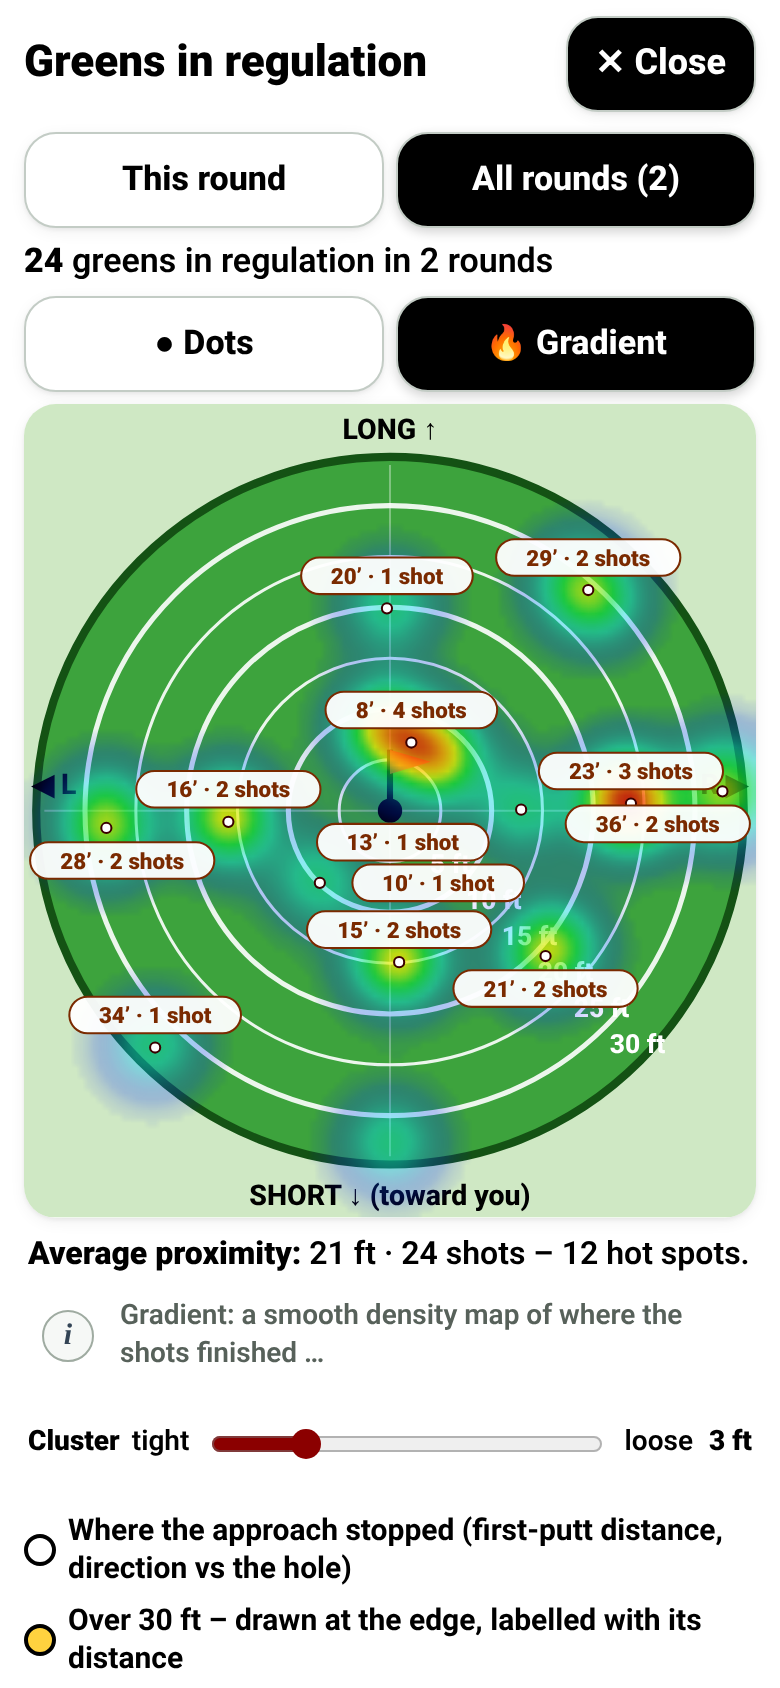
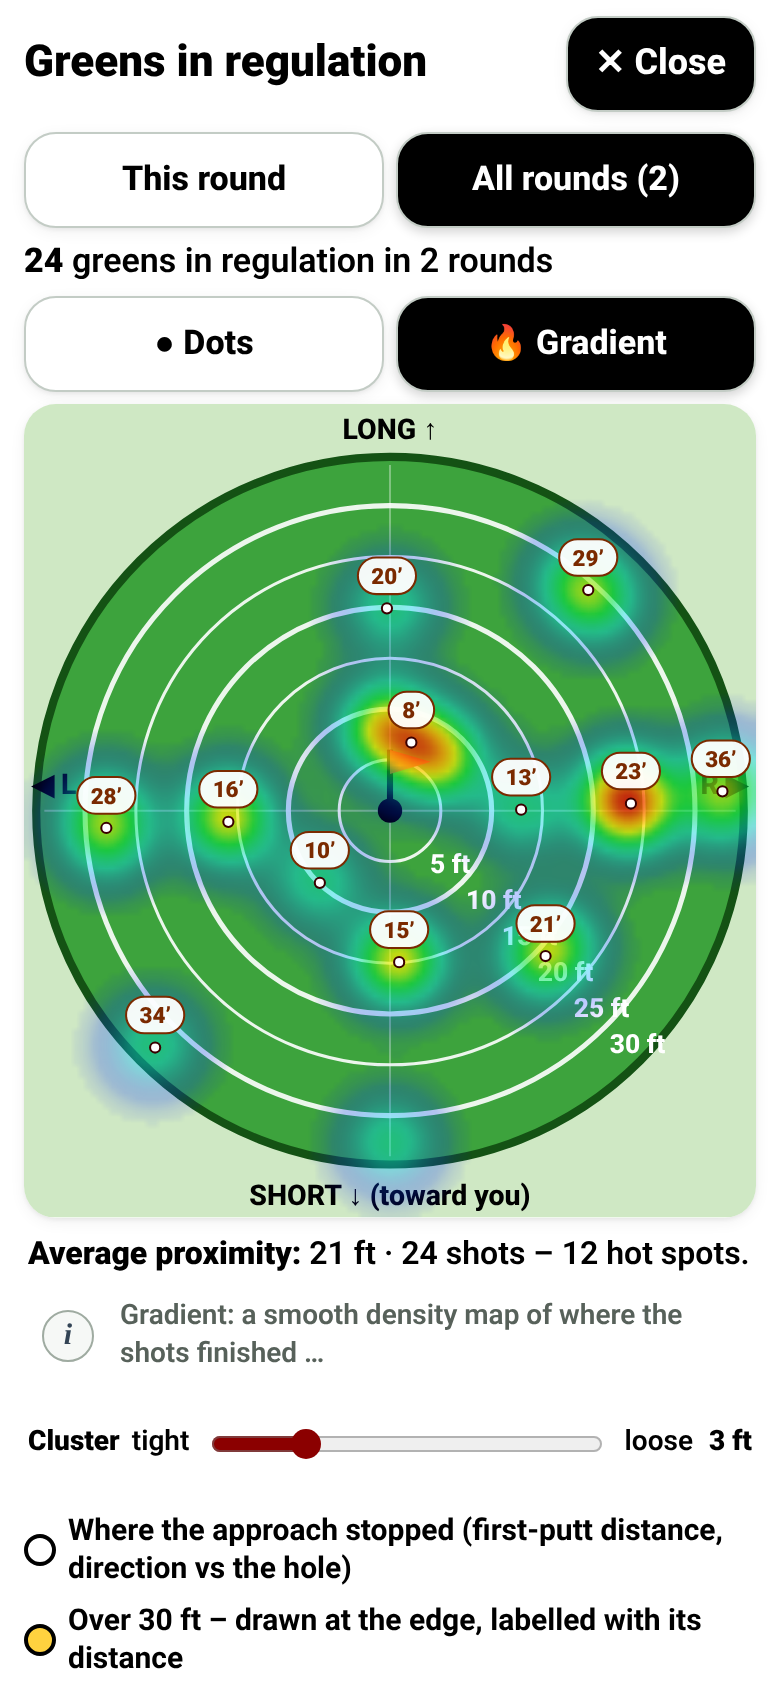
v73: GIR hot-spot labels distance only; prox dot labels use ’

Changed region(s): [[0.0308, 0.4005, 0.9846, 0.6161], [0.3692, 0.3081, 0.8923, 0.3697], [0.0923, 0.5853, 0.3077, 0.6161]]

diff --git a/tests/heat-focused.js b/tests/heat-focused.js
@@ -30,9 +30,9 @@ const BASE = process.env.BASE_URL || 'http://127.0.0.1:8774/', OUT = '/workspace
     if (m === 'pmiss') { await page.waitForSelector('#heattog'); }
     const gr = await page.evaluate(() => ({ img: !!document.querySelector('#mapview svg.heat #heatgrad'), hs: [...document.querySelectorAll('#mapview .hotspot text')].map(t => t.textContent), avg: !!document.querySelector('#heatavg'), sel: document.querySelector('#heattog .sel').dataset.v }));
     assert.ok(gr.img && (m === 'miss' ? gr.avg : !gr.avg) && gr.sel === 'grad', m + ' gradient by default for multi-round ' + JSON.stringify(gr));
-    assert.ok(gr.hs.length && gr.hs.every(t => (m === 'prox' ? /^\d+(\u2019| yd)$/ : /^\d+(\u2019| yd) · \d+ shots?$/).test(t)), m + ' hot-spot tags ' + gr.hs);
+    assert.ok(gr.hs.length && gr.hs.every(t => ((m === 'prox' || m === 'gir') ? /^\d+(\u2019| yd)$/ : /^\d+(\u2019| yd) · \d+ shots?$/).test(t)), m + ' hot-spot tags ' + gr.hs);
     if (m === 'prox') { await page.locator('#mapview svg.heat').scrollIntoViewIfNeeded(); await page.screenshot({ path: OUT + 'prox-labels-dist.png' }); }
-    if (m === 'gir') { assert.ok(gr.hs.some(t => /\u2019 · /.test(t)) && !gr.hs.some(t => / ft/.test(t)), 'feet mark ' + gr.hs); await page.locator('#mapview svg.heat').scrollIntoViewIfNeeded(); await page.screenshot({ path: OUT + 'labels-feet-mark.png' }); }
+    if (m === 'gir') { assert.ok(gr.hs.every(t => /^\d+\u2019$/.test(t)) && !gr.hs.some(t => / ft/.test(t)), 'feet mark ' + gr.hs); await page.locator('#mapview svg.heat').scrollIntoViewIfNeeded(); await page.screenshot({ path: OUT + 'gir-labels-dist.png' }); }
     await page.locator('#heattog').scrollIntoViewIfNeeded(); await page.screenshot({ path: OUT + 'heatmap-gradient-' + m + '.png' });
     if (m === 'putt') { // putt starts: no ⊕, summary = mean distance of the putts shown
       const ps = await page.evaluate(() => { const rs = JSON.parse(localStorage.getItem('golfsg.rounds.v1')); const d = []; // raw entered first-putt distances

diff --git a/tests/d1-focused.js b/tests/d1-focused.js
@@ -38,7 +38,7 @@ const BASE = 'http://127.0.0.1:8786/', OUT = '/workspace/golf-app/screenshots/';
   const cl = await page.evaluate(() => { const L = [['long',38],['right',12],['left',30],['short',24],['longleft',60]].map((d, i) => ({ hit: true, ft: d[1], proxFt: d[1], dir: d[0], hole: i + 1, from: 40, yd: 40 }));
     const host = document.getElementById('proxmap'); host.outerHTML = window.__golf.proxSVG(L, 40); const s = document.getElementById('proxmap'), R = +s.querySelector('#proxrings').dataset.rft, K = 117 / R;
     const hits = [...s.querySelectorAll('.xdot[data-kind="hit"]')].map(e => ({ ft: +e.dataset.hd, cl: !!e.dataset.clamped, d: Math.hypot(+e.getAttribute('cx') - 150, +e.getAttribute('cy') - 250) }));
-    const marks = [...s.querySelectorAll('text')].filter(t => /ft ›$/.test(t.textContent)).map(t => t.textContent); return { R, K, hits, marks }; });
+    const marks = [...s.querySelectorAll('text')].filter(t => /^\d+\u2019 ›$/.test(t.textContent)).map(t => t.textContent); return { R, K, hits, marks }; });
   const over = cl.hits.filter(h => h.ft > cl.R * 0.97); console.log('40 yd edge test: radius', cl.R, 'ft; beyond edge', over.length, 'labels', cl.marks.join(' | '));
   assert.strictEqual(over.length, 3, 'three hits past the edge'); assert.ok(over.every(h => h.cl && Math.abs(h.d - cl.R * 0.97 * cl.K) < 1.5), 'clamped at the edge ' + JSON.stringify(over));
   assert.ok(cl.hits.filter(h => !h.cl).every(h => Math.abs(h.d - h.ft * cl.K) < 1.5), 'true distance inside'); assert.strictEqual(cl.marks.length, 3, 'one › label per clamped hit');

diff --git a/app.js b/app.js
@@ -1297,7 +1297,7 @@
   }
   // tee-shot map: a hot spot's count + fairway share (its average distance would mislead: hits and misses mix); else avg distance + count
   function heatLabel(g) { var n = g.length + ' shot' + (g.length === 1 ? '' : 's');
-    if (view.map === 'prox') return heatFmt(g); // the yardage rail already gives the counts
+    if (view.map === 'prox' || view.map === 'gir') return heatFmt(g); // the yardage rail already gives the counts
     if (view.map === 'fw') return n + ' · ' + Math.round(100 * g.filter(function (p) { return p.fw === '1'; }).length / g.length) + '% fairway';
     return heatFmt(g) + ' · ' + n; }
   function heatFmt(list) { // average distance; yards when every shot is off the green in yd, else feet
@@ -1869,7 +1869,7 @@
         else {
           var nod = !m.dir, rr = Math.min(m.ft, HMAX) * PX.K, key = (m.dir || 'n') + Math.round(rr / 8), j = seen[key] = (seen[key] || 0) + 1;
           q = pt(PX.cx, PX.cy, rr, (nod ? 90 : SG.DIR_ANGLE[m.dir]) + (j - 1) * 7); kind = nod ? 'hitnodir' : 'hit';
-          clamped = m.ft > HMAX; label = Math.round(m.ft) + ' ft' + (clamped ? ' ›' : '') + (m.chipIn ? ' (chip-in)' : '');
+          clamped = m.ft > HMAX; label = Math.round(m.ft) + '’' + (clamped ? ' ›' : '') + (m.chipIn ? ' (chip-in)' : '');
         }
       } else if (!m.dir) {
         q = [PX.W - 22 - (nd % 6) * 26, 52 + Math.floor(nd / 6) * 34]; nd++; kind = 'missnodir';

diff --git a/sw.js b/sw.js
@@ -1,5 +1,5 @@
 // Offline support: cache the whole app on install, serve cache-first.
-const CACHE = 'golf-sg-v72';
+const CACHE = 'golf-sg-v73';
 const ASSETS = ['./', './index.html', './styles.css', './sg.js', './app.js', './config.js', './onedrive.js', './vendor/msal-browser.min.js', './vendor/jspdf.umd.min.js',
   './manifest.webmanifest', './icons/apple-touch-icon.png', './icons/icon-192.png',
   './icons/icon-512.png', './icons/icon-512-maskable.png'];
